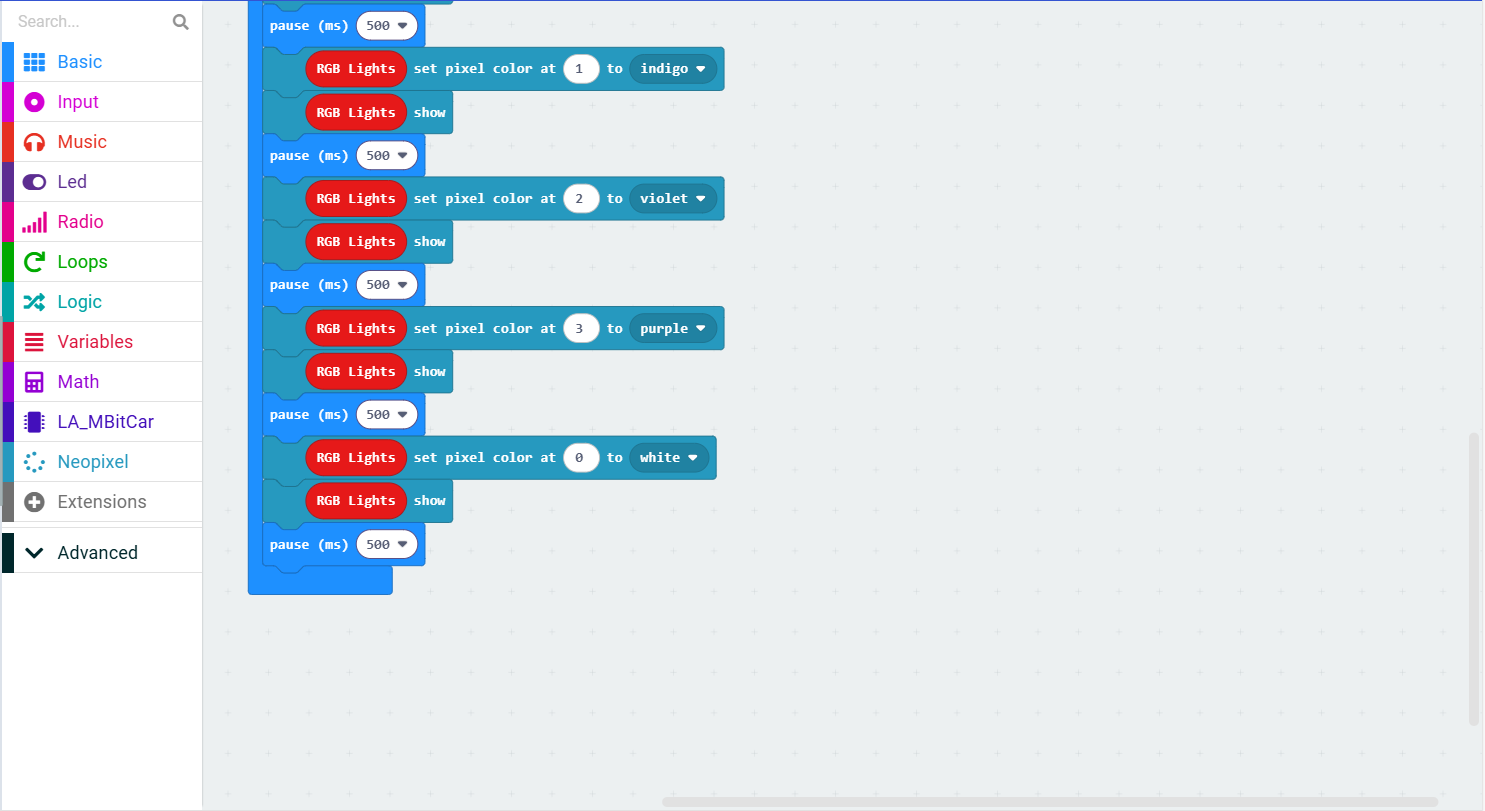
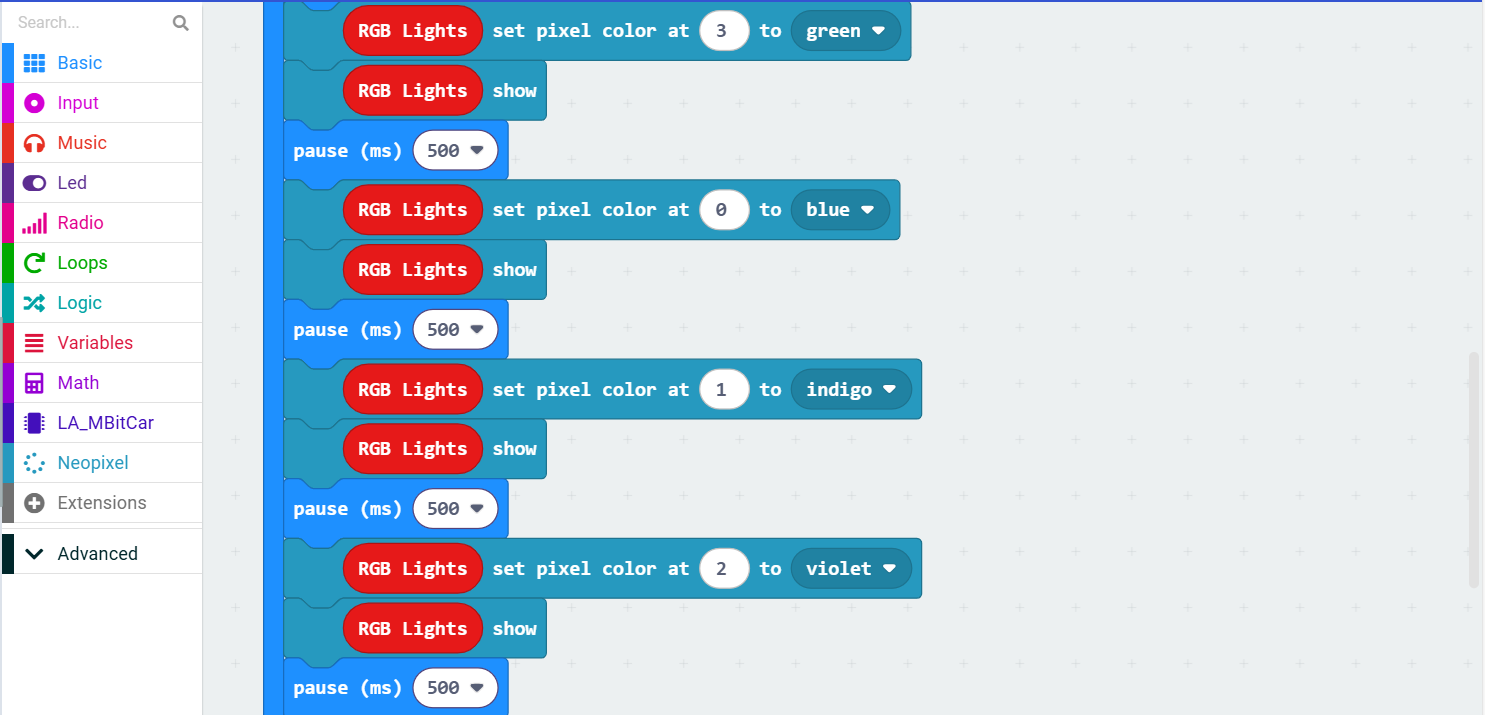
21

Changed region(s): [[0.0929, 0.0, 0.6195, 1.0], [0.0, 0.0, 0.1239, 0.8]]

diff --git a/docs/source/Upload Code/Basic Courses for Cars.rst b/docs/source/Upload Code/Basic Courses for Cars.rst
@@ -70,6 +70,9 @@ makecode图形化程序截图:
 .. figure:: ./img/RGB跑马灯C2.png
    :align: center
    :width: 80%
+.. figure:: ./img/RGB跑马灯C3.png
+   :align: center
+   :width: 80%
 
 5. RGB Breathing Light
 --------------
